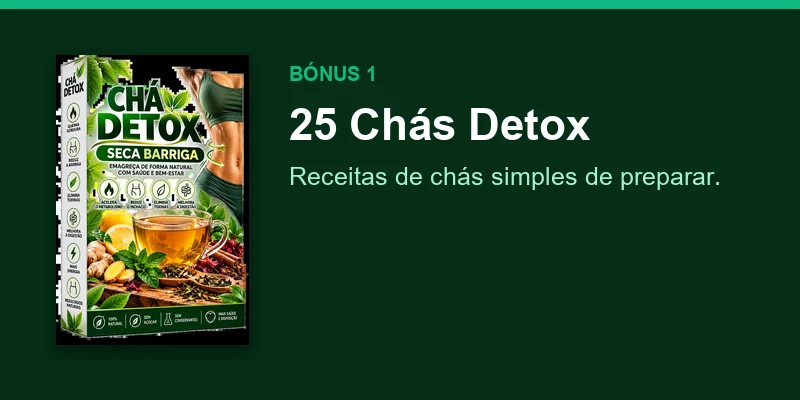
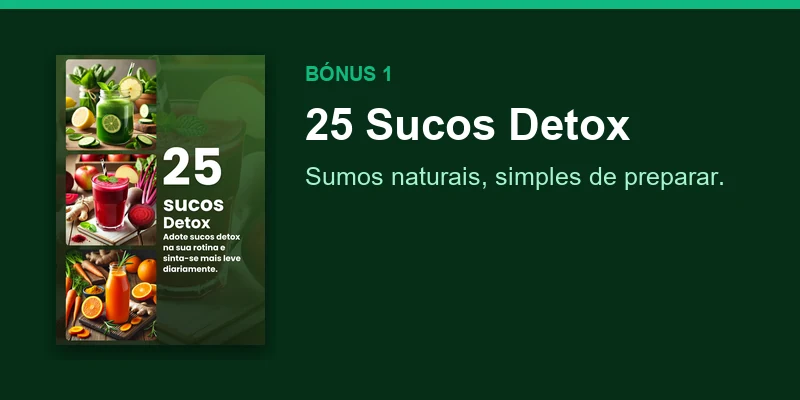
fix(entrega): o bonus dos chas eram sumos, e passa a chamar-se assim
O ficheiro por tras daquele link chama-se 25--SUCOS--DETOX.pdf. A pagina
prometia chas; agora diz sumos, com a capa do proprio PDF. O nome que a
pessoa le tem de ser o que ela recebe.

Descoberto ao abrir cada link do Drive sem sessao iniciada — teste que
tambem confirmou que os dez abrem para quem compra.

Changed region(s): [[0.0625, 0.12, 0.9062, 0.87]]

diff --git a/public/receitas-fitness/index.html b/public/receitas-fitness/index.html
@@ -54,7 +54,7 @@ NÃO PRECISAS DE SABER COZINHAR NEM DE INGREDIENTES CAROS
 </h2><p class="text-base md:text-lg max-w-2xl mx-auto">
 Além das 150 receitas, levas também estes três, sem pagar mais nada
 </p> </div> <div class="grid grid-cols-1 gap-6 lg:grid-cols-3 mx-auto"> <div class="border-primary/40 border-2 rounded-xl overflow-hidden transition-all duration-500 hover:scale-102 opacity-100 translate-y-0"> <div class="relative">  <div class="absolute top-4 left-4 z-10"> <div class="bg-primary text-surface px-3 py-1 rounded-full text-sm font-bold">
-Bónus #1 </div> </div>  <img src="/receitas-fitness/assets/bonus-1.webp" alt="Hero" loading="lazy" decoding="async" width="391" height="192" class="w-full h-full object-cover">  </div> <div class="p-4 text-center"> <h3 class="text-xl font-semibold">25 Chás Detox</h3> <div class="border-t border-primary/40 my-3"></div> <div>25 receitas de chás simples de preparar, com ingredientes que se encontram em qualquer lado.</div> </div> </div><div class="border-primary/40 border-2 rounded-xl overflow-hidden transition-all duration-500 hover:scale-102 opacity-100 translate-y-0"> <div class="relative">  <div class="absolute top-4 left-4 z-10"> <div class="bg-primary text-surface px-3 py-1 rounded-full text-sm font-bold">
+Bónus #1 </div> </div>  <img src="/receitas-fitness/assets/bonus-1.webp" alt="Hero" loading="lazy" decoding="async" width="391" height="192" class="w-full h-full object-cover">  </div> <div class="p-4 text-center"> <h3 class="text-xl font-semibold">25 Sucos Detox</h3> <div class="border-t border-primary/40 my-3"></div> <div>25 sumos detox naturais, simples de preparar com fruta e vegetais.</div> </div> </div><div class="border-primary/40 border-2 rounded-xl overflow-hidden transition-all duration-500 hover:scale-102 opacity-100 translate-y-0"> <div class="relative">  <div class="absolute top-4 left-4 z-10"> <div class="bg-primary text-surface px-3 py-1 rounded-full text-sm font-bold">
 Bónus #2 </div> </div>  <img src="/receitas-fitness/assets/bonus-2.webp" alt="Hero" loading="lazy" decoding="async" width="391" height="192" class="w-full h-full object-cover">  </div> <div class="p-4 text-center"> <h3 class="text-xl font-semibold">Chá Seca Barriga</h3> <div class="border-t border-primary/40 my-3"></div> <div>A receita completa do chá seca barriga, passo a passo, para fazeres em casa.</div> </div> </div><div class="border-primary/40 border-2 rounded-xl overflow-hidden transition-all duration-500 hover:scale-102 opacity-100 translate-y-0"> <div class="relative">  <div class="absolute top-4 left-4 z-10"> <div class="bg-primary text-surface px-3 py-1 rounded-full text-sm font-bold">
 Bónus #3 </div> </div>  <img src="/receitas-fitness/assets/bonus-3.webp" alt="Hero" loading="lazy" decoding="async" width="391" height="192" class="w-full h-full object-cover">  </div> <div class="p-4 text-center"> <h3 class="text-xl font-semibold">Lista de Compras</h3> <div class="border-t border-primary/40 my-3"></div> <div>A lista pronta a levar ao supermercado, organizada por secção, para não te faltar nada nem comprares a mais.</div> </div> </div> </div> </div> </section> <section class="odd:bg-surface-alt even:bg-surface odd:text-surface even:text-surface-alt py-12"> <div class="w-full max-w-7xl mx-auto px-4 sm:px-6"> <div class="text-center mb-12 md:mb-16 transition-all duration-700 opacity-100 translate-y-0"> <h2 class="text-2xl md:text-3xl lg:text-4xl font-bold mb-4">
 Como Tenho Acesso ao Material?
@@ -75,7 +75,7 @@ Falta o que pôr no prato — sem repetir, sem complicar.
 Pagamento único
 </p> </div> </div> <div class="space-y-3 mb-6 relative z-10"> <div class="flex items-center justify-center border-t border-orange-800 pt-3 mt-3"> <div class="rounded-lg p-3"> <p class="font-bold flex items-center gap-2 text-2xl">
 O QUE ESTÁ INCLUÍDO
-</p> </div> </div> <div class="grid grid-cols-1 gap-4"> <div class="flex items-start gap-2"> <div class="w-6 h-6 rounded-full bg-primary/60 flex items-center justify-center shrink-0 mt-0.5"> <svg xmlns="http://www.w3.org/2000/svg" width="24" height="24" viewBox="0 0 24 24" fill="none" stroke="currentColor" stroke-width="2" stroke-linecap="round" stroke-linejoin="round" class="lucide lucide-check w-2.5 h-2.5"> <path d="M20 6 9 17l-5-5"></path> </svg> </div> <span class="text-xl">Receitas para todas as refeições do dia</span> </div><div class="flex items-start gap-2"> <div class="w-6 h-6 rounded-full bg-primary/60 flex items-center justify-center shrink-0 mt-0.5"> <svg xmlns="http://www.w3.org/2000/svg" width="24" height="24" viewBox="0 0 24 24" fill="none" stroke="currentColor" stroke-width="2" stroke-linecap="round" stroke-linejoin="round" class="lucide lucide-check w-2.5 h-2.5"> <path d="M20 6 9 17l-5-5"></path> </svg> </div> <span class="text-xl">Práticas e com ingredientes naturais</span> </div><div class="flex items-start gap-2"> <div class="w-6 h-6 rounded-full bg-primary/60 flex items-center justify-center shrink-0 mt-0.5"> <svg xmlns="http://www.w3.org/2000/svg" width="24" height="24" viewBox="0 0 24 24" fill="none" stroke="currentColor" stroke-width="2" stroke-linecap="round" stroke-linejoin="round" class="lucide lucide-check w-2.5 h-2.5"> <path d="M20 6 9 17l-5-5"></path> </svg> </div> <span class="text-xl">3 bónus: chás detox, chá seca barriga e lista de compras</span> </div> </div> </div> <a href="#" id="btn-sim" data-checkout class="flex items-center justify-center text-center rounded-xl p-4 w-full bg-special text-special-alt text-xl font-extrabold shadow-xl transition-all duration-300 animate-shaker">
+</p> </div> </div> <div class="grid grid-cols-1 gap-4"> <div class="flex items-start gap-2"> <div class="w-6 h-6 rounded-full bg-primary/60 flex items-center justify-center shrink-0 mt-0.5"> <svg xmlns="http://www.w3.org/2000/svg" width="24" height="24" viewBox="0 0 24 24" fill="none" stroke="currentColor" stroke-width="2" stroke-linecap="round" stroke-linejoin="round" class="lucide lucide-check w-2.5 h-2.5"> <path d="M20 6 9 17l-5-5"></path> </svg> </div> <span class="text-xl">Receitas para todas as refeições do dia</span> </div><div class="flex items-start gap-2"> <div class="w-6 h-6 rounded-full bg-primary/60 flex items-center justify-center shrink-0 mt-0.5"> <svg xmlns="http://www.w3.org/2000/svg" width="24" height="24" viewBox="0 0 24 24" fill="none" stroke="currentColor" stroke-width="2" stroke-linecap="round" stroke-linejoin="round" class="lucide lucide-check w-2.5 h-2.5"> <path d="M20 6 9 17l-5-5"></path> </svg> </div> <span class="text-xl">Práticas e com ingredientes naturais</span> </div><div class="flex items-start gap-2"> <div class="w-6 h-6 rounded-full bg-primary/60 flex items-center justify-center shrink-0 mt-0.5"> <svg xmlns="http://www.w3.org/2000/svg" width="24" height="24" viewBox="0 0 24 24" fill="none" stroke="currentColor" stroke-width="2" stroke-linecap="round" stroke-linejoin="round" class="lucide lucide-check w-2.5 h-2.5"> <path d="M20 6 9 17l-5-5"></path> </svg> </div> <span class="text-xl">3 bónus: sucos detox, chá seca barriga e lista de compras</span> </div> </div> </div> <a href="#" id="btn-sim" data-checkout class="flex items-center justify-center text-center rounded-xl p-4 w-full bg-special text-special-alt text-xl font-extrabold shadow-xl transition-all duration-300 animate-shaker">
 SIM, QUERO AS 150 RECEITAS — 17,90 €
 </a>
 <a href="#" id="btn-nao" style="display:block;text-align:center;margin-top:14px;font-size:13px;color:#64748b;text-decoration:underline">Não, obrigado. Continuar para a minha compra.</a> <div class="flex items-center justify-center gap-4 mt-6 text-xs relative z-10"> <span class="flex items-center gap-1"><svg xmlns="http://www.w3.org/2000/svg" width="24" height="24" viewBox="0 0 24 24" fill="none" stroke="currentColor" stroke-width="2" stroke-linecap="round" stroke-linejoin="round" class="lucide lucide-shield w-4 h-4"><path d="M20 13c0 5-3.5 7.5-7.66 8.95a1 1 0 0 1-.67-.01C7.5 20.5 4 18 4 13V6a1 1 0 0 1 1-1c2 0 4.5-1.2 6.24-2.72a1.17 1.17 0 0 1 1.52 0C14.51 3.81 17 5 19 5a1 1 0 0 1 1 1z"></path></svg>Compra Segura</span> </div> </div> </div><div class="text-center mt-8 transition-all duration-700 delay-300 opacity-100 translate-y-0"> <div class="inline-flex items-center bg-primary text-surface px-6 py-3 rounded-2xl text-xs lg:text-xl font-bold"> <span>Pagamento único · acesso imediato</span> </div> </div> </div> </section> <section class="odd:bg-surface-alt even:bg-surface odd:text-surface even:text-surface-alt py-12"> <div class="w-full max-w-7xl mx-auto px-4 sm:px-6"> <div class="text-center mb-12 md:mb-16 transition-all duration-700 opacity-100 translate-y-0"> <h2 class="text-2xl md:text-3xl lg:text-4xl font-bold mb-4">

diff --git a/public/receitas-fitness/espera/index.html b/public/receitas-fitness/espera/index.html
@@ -54,7 +54,7 @@ NÃO PRECISAS DE SABER COZINHAR NEM DE INGREDIENTES CAROS
 </h2><p class="text-base md:text-lg max-w-2xl mx-auto">
 Além das 150 receitas, levas também estes três, sem pagar mais nada
 </p> </div> <div class="grid grid-cols-1 gap-6 lg:grid-cols-3 mx-auto"> <div class="border-primary/40 border-2 rounded-xl overflow-hidden transition-all duration-500 hover:scale-102 opacity-100 translate-y-0"> <div class="relative">  <div class="absolute top-4 left-4 z-10"> <div class="bg-primary text-surface px-3 py-1 rounded-full text-sm font-bold">
-Bónus #1 </div> </div>  <img src="/receitas-fitness/assets/bonus-1.webp" alt="Hero" loading="lazy" decoding="async" width="391" height="192" class="w-full h-full object-cover">  </div> <div class="p-4 text-center"> <h3 class="text-xl font-semibold">25 Chás Detox</h3> <div class="border-t border-primary/40 my-3"></div> <div>25 receitas de chás simples de preparar, com ingredientes que se encontram em qualquer lado.</div> </div> </div><div class="border-primary/40 border-2 rounded-xl overflow-hidden transition-all duration-500 hover:scale-102 opacity-100 translate-y-0"> <div class="relative">  <div class="absolute top-4 left-4 z-10"> <div class="bg-primary text-surface px-3 py-1 rounded-full text-sm font-bold">
+Bónus #1 </div> </div>  <img src="/receitas-fitness/assets/bonus-1.webp" alt="Hero" loading="lazy" decoding="async" width="391" height="192" class="w-full h-full object-cover">  </div> <div class="p-4 text-center"> <h3 class="text-xl font-semibold">25 Sucos Detox</h3> <div class="border-t border-primary/40 my-3"></div> <div>25 sumos detox naturais, simples de preparar com fruta e vegetais.</div> </div> </div><div class="border-primary/40 border-2 rounded-xl overflow-hidden transition-all duration-500 hover:scale-102 opacity-100 translate-y-0"> <div class="relative">  <div class="absolute top-4 left-4 z-10"> <div class="bg-primary text-surface px-3 py-1 rounded-full text-sm font-bold">
 Bónus #2 </div> </div>  <img src="/receitas-fitness/assets/bonus-2.webp" alt="Hero" loading="lazy" decoding="async" width="391" height="192" class="w-full h-full object-cover">  </div> <div class="p-4 text-center"> <h3 class="text-xl font-semibold">Chá Seca Barriga</h3> <div class="border-t border-primary/40 my-3"></div> <div>A receita completa do chá seca barriga, passo a passo, para fazeres em casa.</div> </div> </div><div class="border-primary/40 border-2 rounded-xl overflow-hidden transition-all duration-500 hover:scale-102 opacity-100 translate-y-0"> <div class="relative">  <div class="absolute top-4 left-4 z-10"> <div class="bg-primary text-surface px-3 py-1 rounded-full text-sm font-bold">
 Bónus #3 </div> </div>  <img src="/receitas-fitness/assets/bonus-3.webp" alt="Hero" loading="lazy" decoding="async" width="391" height="192" class="w-full h-full object-cover">  </div> <div class="p-4 text-center"> <h3 class="text-xl font-semibold">Lista de Compras</h3> <div class="border-t border-primary/40 my-3"></div> <div>A lista pronta a levar ao supermercado, organizada por secção, para não te faltar nada nem comprares a mais.</div> </div> </div> </div> </div> </section> <section class="odd:bg-surface-alt even:bg-surface odd:text-surface even:text-surface-alt py-12"> <div class="w-full max-w-7xl mx-auto px-4 sm:px-6"> <div class="text-center mb-12 md:mb-16 transition-all duration-700 opacity-100 translate-y-0"> <h2 class="text-2xl md:text-3xl lg:text-4xl font-bold mb-4">
 Como Tenho Acesso ao Material?
@@ -75,7 +75,7 @@ Falta o que pôr no prato — sem repetir, sem complicar.
 Pagamento único
 </p> </div> </div> <div class="space-y-3 mb-6 relative z-10"> <div class="flex items-center justify-center border-t border-orange-800 pt-3 mt-3"> <div class="rounded-lg p-3"> <p class="font-bold flex items-center gap-2 text-2xl">
 O QUE ESTÁ INCLUÍDO
-</p> </div> </div> <div class="grid grid-cols-1 gap-4"> <div class="flex items-start gap-2"> <div class="w-6 h-6 rounded-full bg-primary/60 flex items-center justify-center shrink-0 mt-0.5"> <svg xmlns="http://www.w3.org/2000/svg" width="24" height="24" viewBox="0 0 24 24" fill="none" stroke="currentColor" stroke-width="2" stroke-linecap="round" stroke-linejoin="round" class="lucide lucide-check w-2.5 h-2.5"> <path d="M20 6 9 17l-5-5"></path> </svg> </div> <span class="text-xl">Receitas para todas as refeições do dia</span> </div><div class="flex items-start gap-2"> <div class="w-6 h-6 rounded-full bg-primary/60 flex items-center justify-center shrink-0 mt-0.5"> <svg xmlns="http://www.w3.org/2000/svg" width="24" height="24" viewBox="0 0 24 24" fill="none" stroke="currentColor" stroke-width="2" stroke-linecap="round" stroke-linejoin="round" class="lucide lucide-check w-2.5 h-2.5"> <path d="M20 6 9 17l-5-5"></path> </svg> </div> <span class="text-xl">Práticas e com ingredientes naturais</span> </div><div class="flex items-start gap-2"> <div class="w-6 h-6 rounded-full bg-primary/60 flex items-center justify-center shrink-0 mt-0.5"> <svg xmlns="http://www.w3.org/2000/svg" width="24" height="24" viewBox="0 0 24 24" fill="none" stroke="currentColor" stroke-width="2" stroke-linecap="round" stroke-linejoin="round" class="lucide lucide-check w-2.5 h-2.5"> <path d="M20 6 9 17l-5-5"></path> </svg> </div> <span class="text-xl">3 bónus: chás detox, chá seca barriga e lista de compras</span> </div> </div> </div> <a href="#" id="btn-sim" data-checkout class="flex items-center justify-center text-center rounded-xl p-4 w-full bg-special text-special-alt text-xl font-extrabold shadow-xl transition-all duration-300 animate-shaker">
+</p> </div> </div> <div class="grid grid-cols-1 gap-4"> <div class="flex items-start gap-2"> <div class="w-6 h-6 rounded-full bg-primary/60 flex items-center justify-center shrink-0 mt-0.5"> <svg xmlns="http://www.w3.org/2000/svg" width="24" height="24" viewBox="0 0 24 24" fill="none" stroke="currentColor" stroke-width="2" stroke-linecap="round" stroke-linejoin="round" class="lucide lucide-check w-2.5 h-2.5"> <path d="M20 6 9 17l-5-5"></path> </svg> </div> <span class="text-xl">Receitas para todas as refeições do dia</span> </div><div class="flex items-start gap-2"> <div class="w-6 h-6 rounded-full bg-primary/60 flex items-center justify-center shrink-0 mt-0.5"> <svg xmlns="http://www.w3.org/2000/svg" width="24" height="24" viewBox="0 0 24 24" fill="none" stroke="currentColor" stroke-width="2" stroke-linecap="round" stroke-linejoin="round" class="lucide lucide-check w-2.5 h-2.5"> <path d="M20 6 9 17l-5-5"></path> </svg> </div> <span class="text-xl">Práticas e com ingredientes naturais</span> </div><div class="flex items-start gap-2"> <div class="w-6 h-6 rounded-full bg-primary/60 flex items-center justify-center shrink-0 mt-0.5"> <svg xmlns="http://www.w3.org/2000/svg" width="24" height="24" viewBox="0 0 24 24" fill="none" stroke="currentColor" stroke-width="2" stroke-linecap="round" stroke-linejoin="round" class="lucide lucide-check w-2.5 h-2.5"> <path d="M20 6 9 17l-5-5"></path> </svg> </div> <span class="text-xl">3 bónus: sucos detox, chá seca barriga e lista de compras</span> </div> </div> </div> <a href="#" id="btn-sim" data-checkout class="flex items-center justify-center text-center rounded-xl p-4 w-full bg-special text-special-alt text-xl font-extrabold shadow-xl transition-all duration-300 animate-shaker">
 QUERO POR 11,90 €
 </a>
 <a href="#" id="btn-nao" style="display:block;text-align:center;margin-top:14px;font-size:13px;color:#64748b;text-decoration:underline">Não, obrigado. Continuar para a minha compra.</a> <div class="flex items-center justify-center gap-4 mt-6 text-xs relative z-10"> <span class="flex items-center gap-1"><svg xmlns="http://www.w3.org/2000/svg" width="24" height="24" viewBox="0 0 24 24" fill="none" stroke="currentColor" stroke-width="2" stroke-linecap="round" stroke-linejoin="round" class="lucide lucide-shield w-4 h-4"><path d="M20 13c0 5-3.5 7.5-7.66 8.95a1 1 0 0 1-.67-.01C7.5 20.5 4 18 4 13V6a1 1 0 0 1 1-1c2 0 4.5-1.2 6.24-2.72a1.17 1.17 0 0 1 1.52 0C14.51 3.81 17 5 19 5a1 1 0 0 1 1 1z"></path></svg>Compra Segura</span> </div> </div> </div><div class="text-center mt-8 transition-all duration-700 delay-300 opacity-100 translate-y-0"> <div class="inline-flex items-center bg-primary text-surface px-6 py-3 rounded-2xl text-xs lg:text-xl font-bold"> <span>Pagamento único · acesso imediato</span> </div> </div> </div> </section> <section class="odd:bg-surface-alt even:bg-surface odd:text-surface even:text-surface-alt py-12"> <div class="w-full max-w-7xl mx-auto px-4 sm:px-6"> <div class="text-center mb-12 md:mb-16 transition-all duration-700 opacity-100 translate-y-0"> <h2 class="text-2xl md:text-3xl lg:text-4xl font-bold mb-4">
